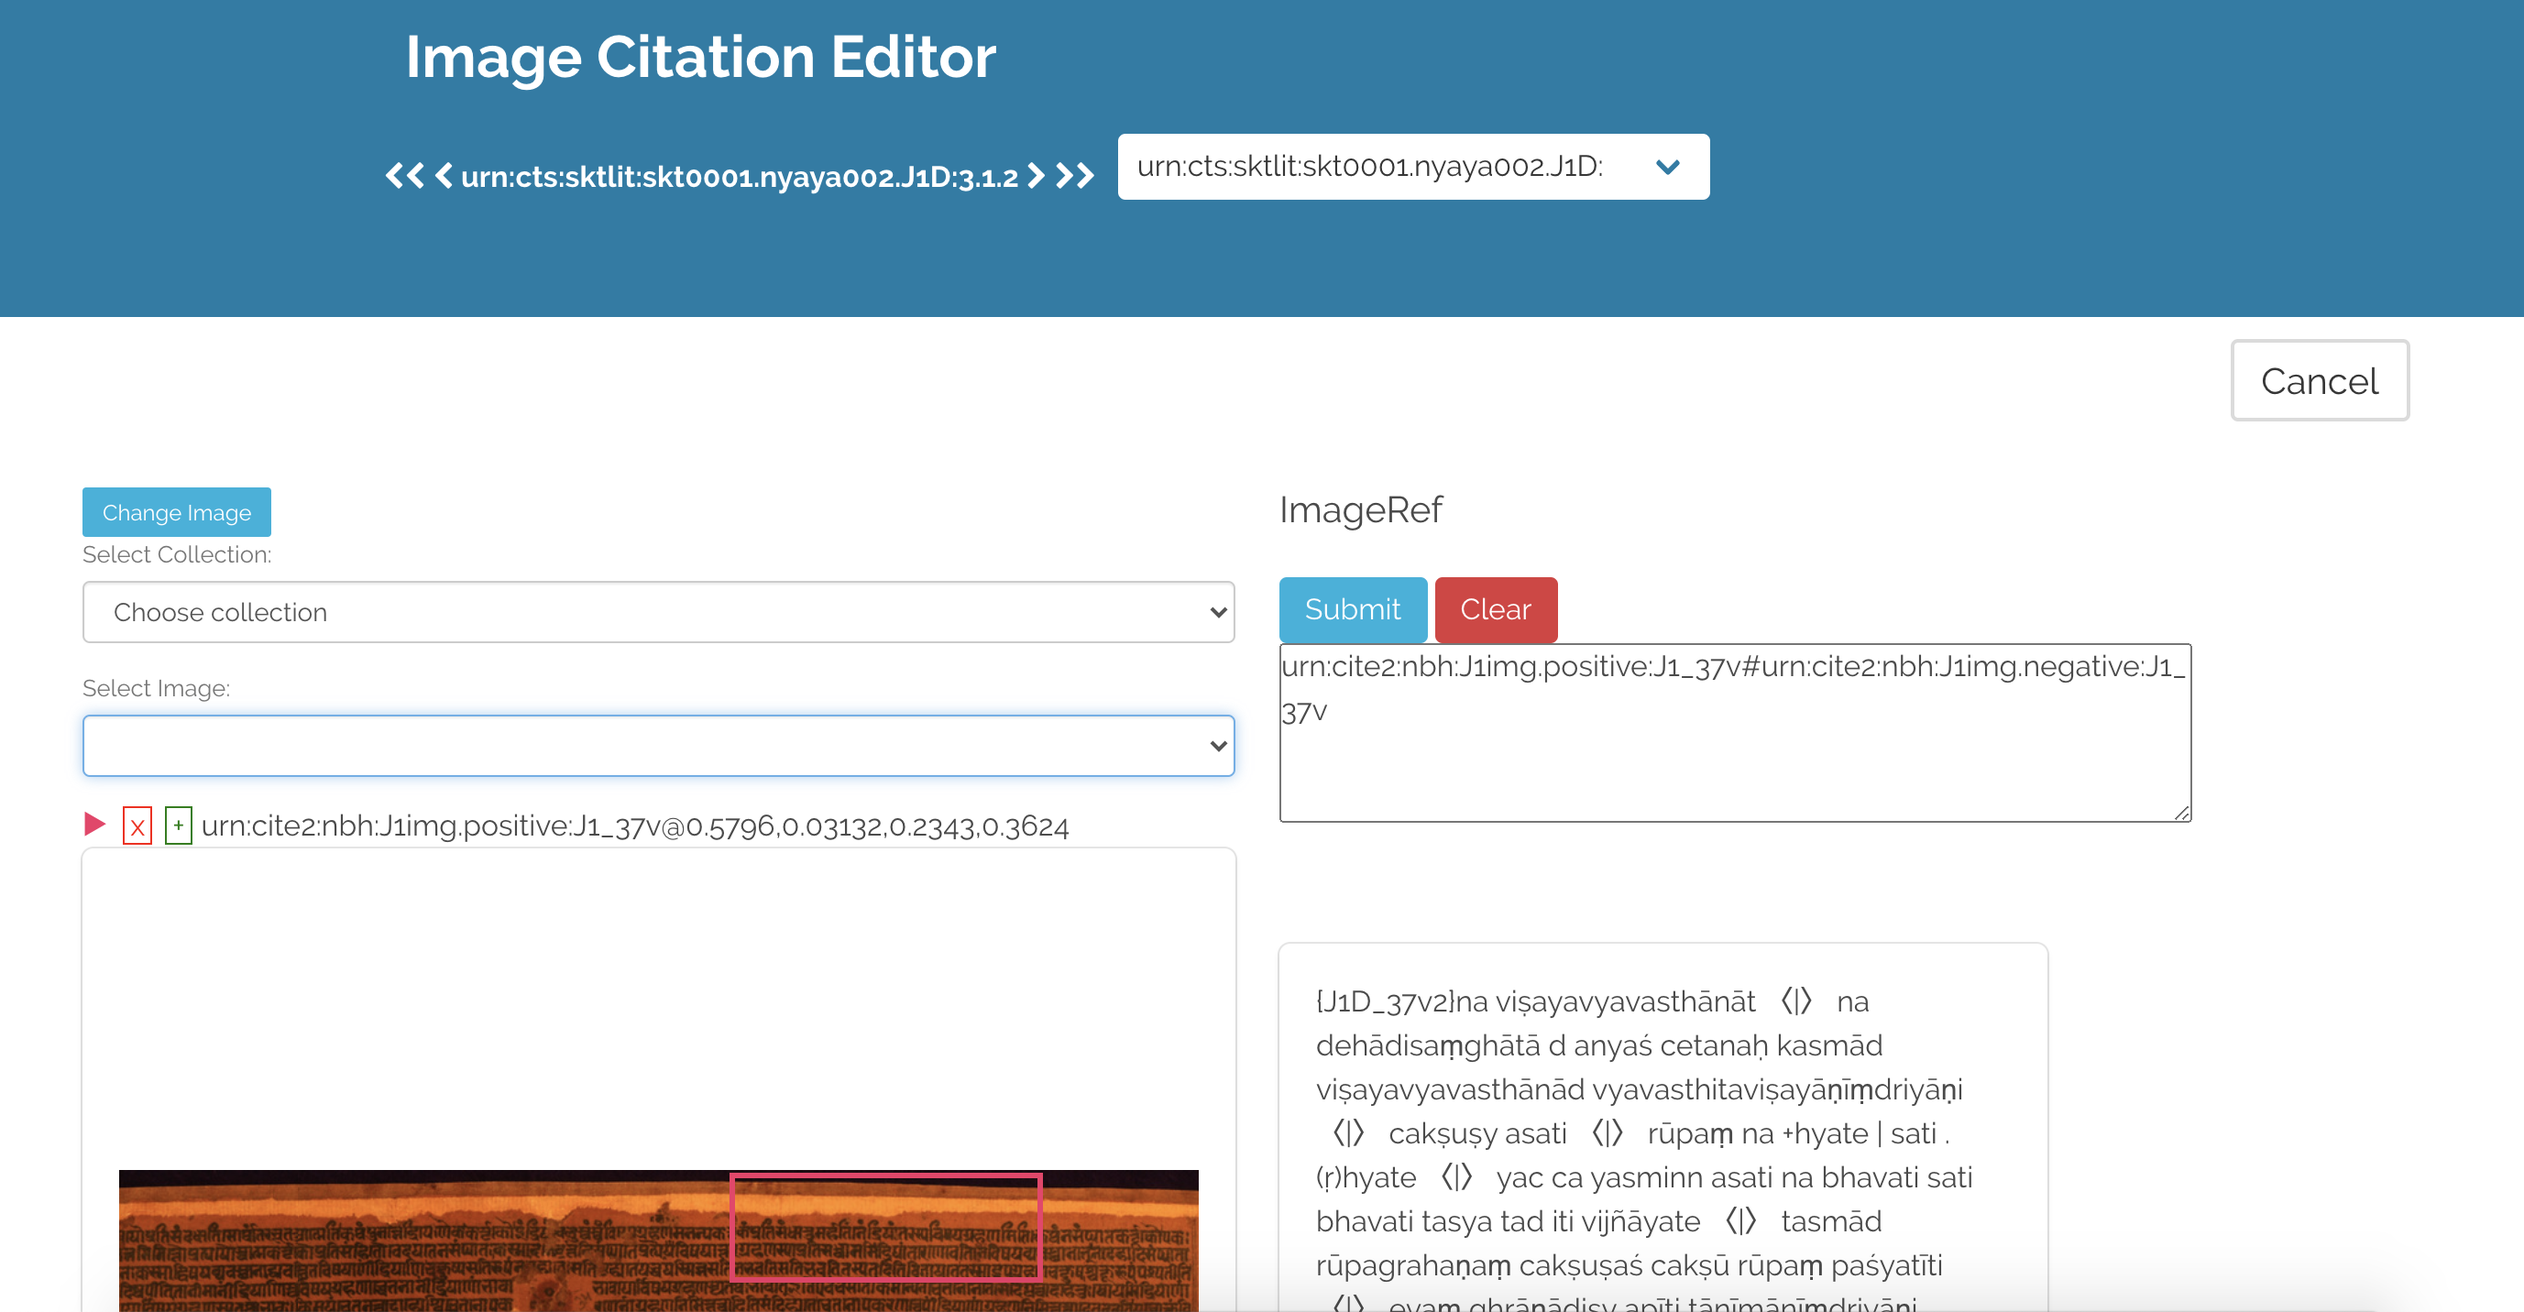
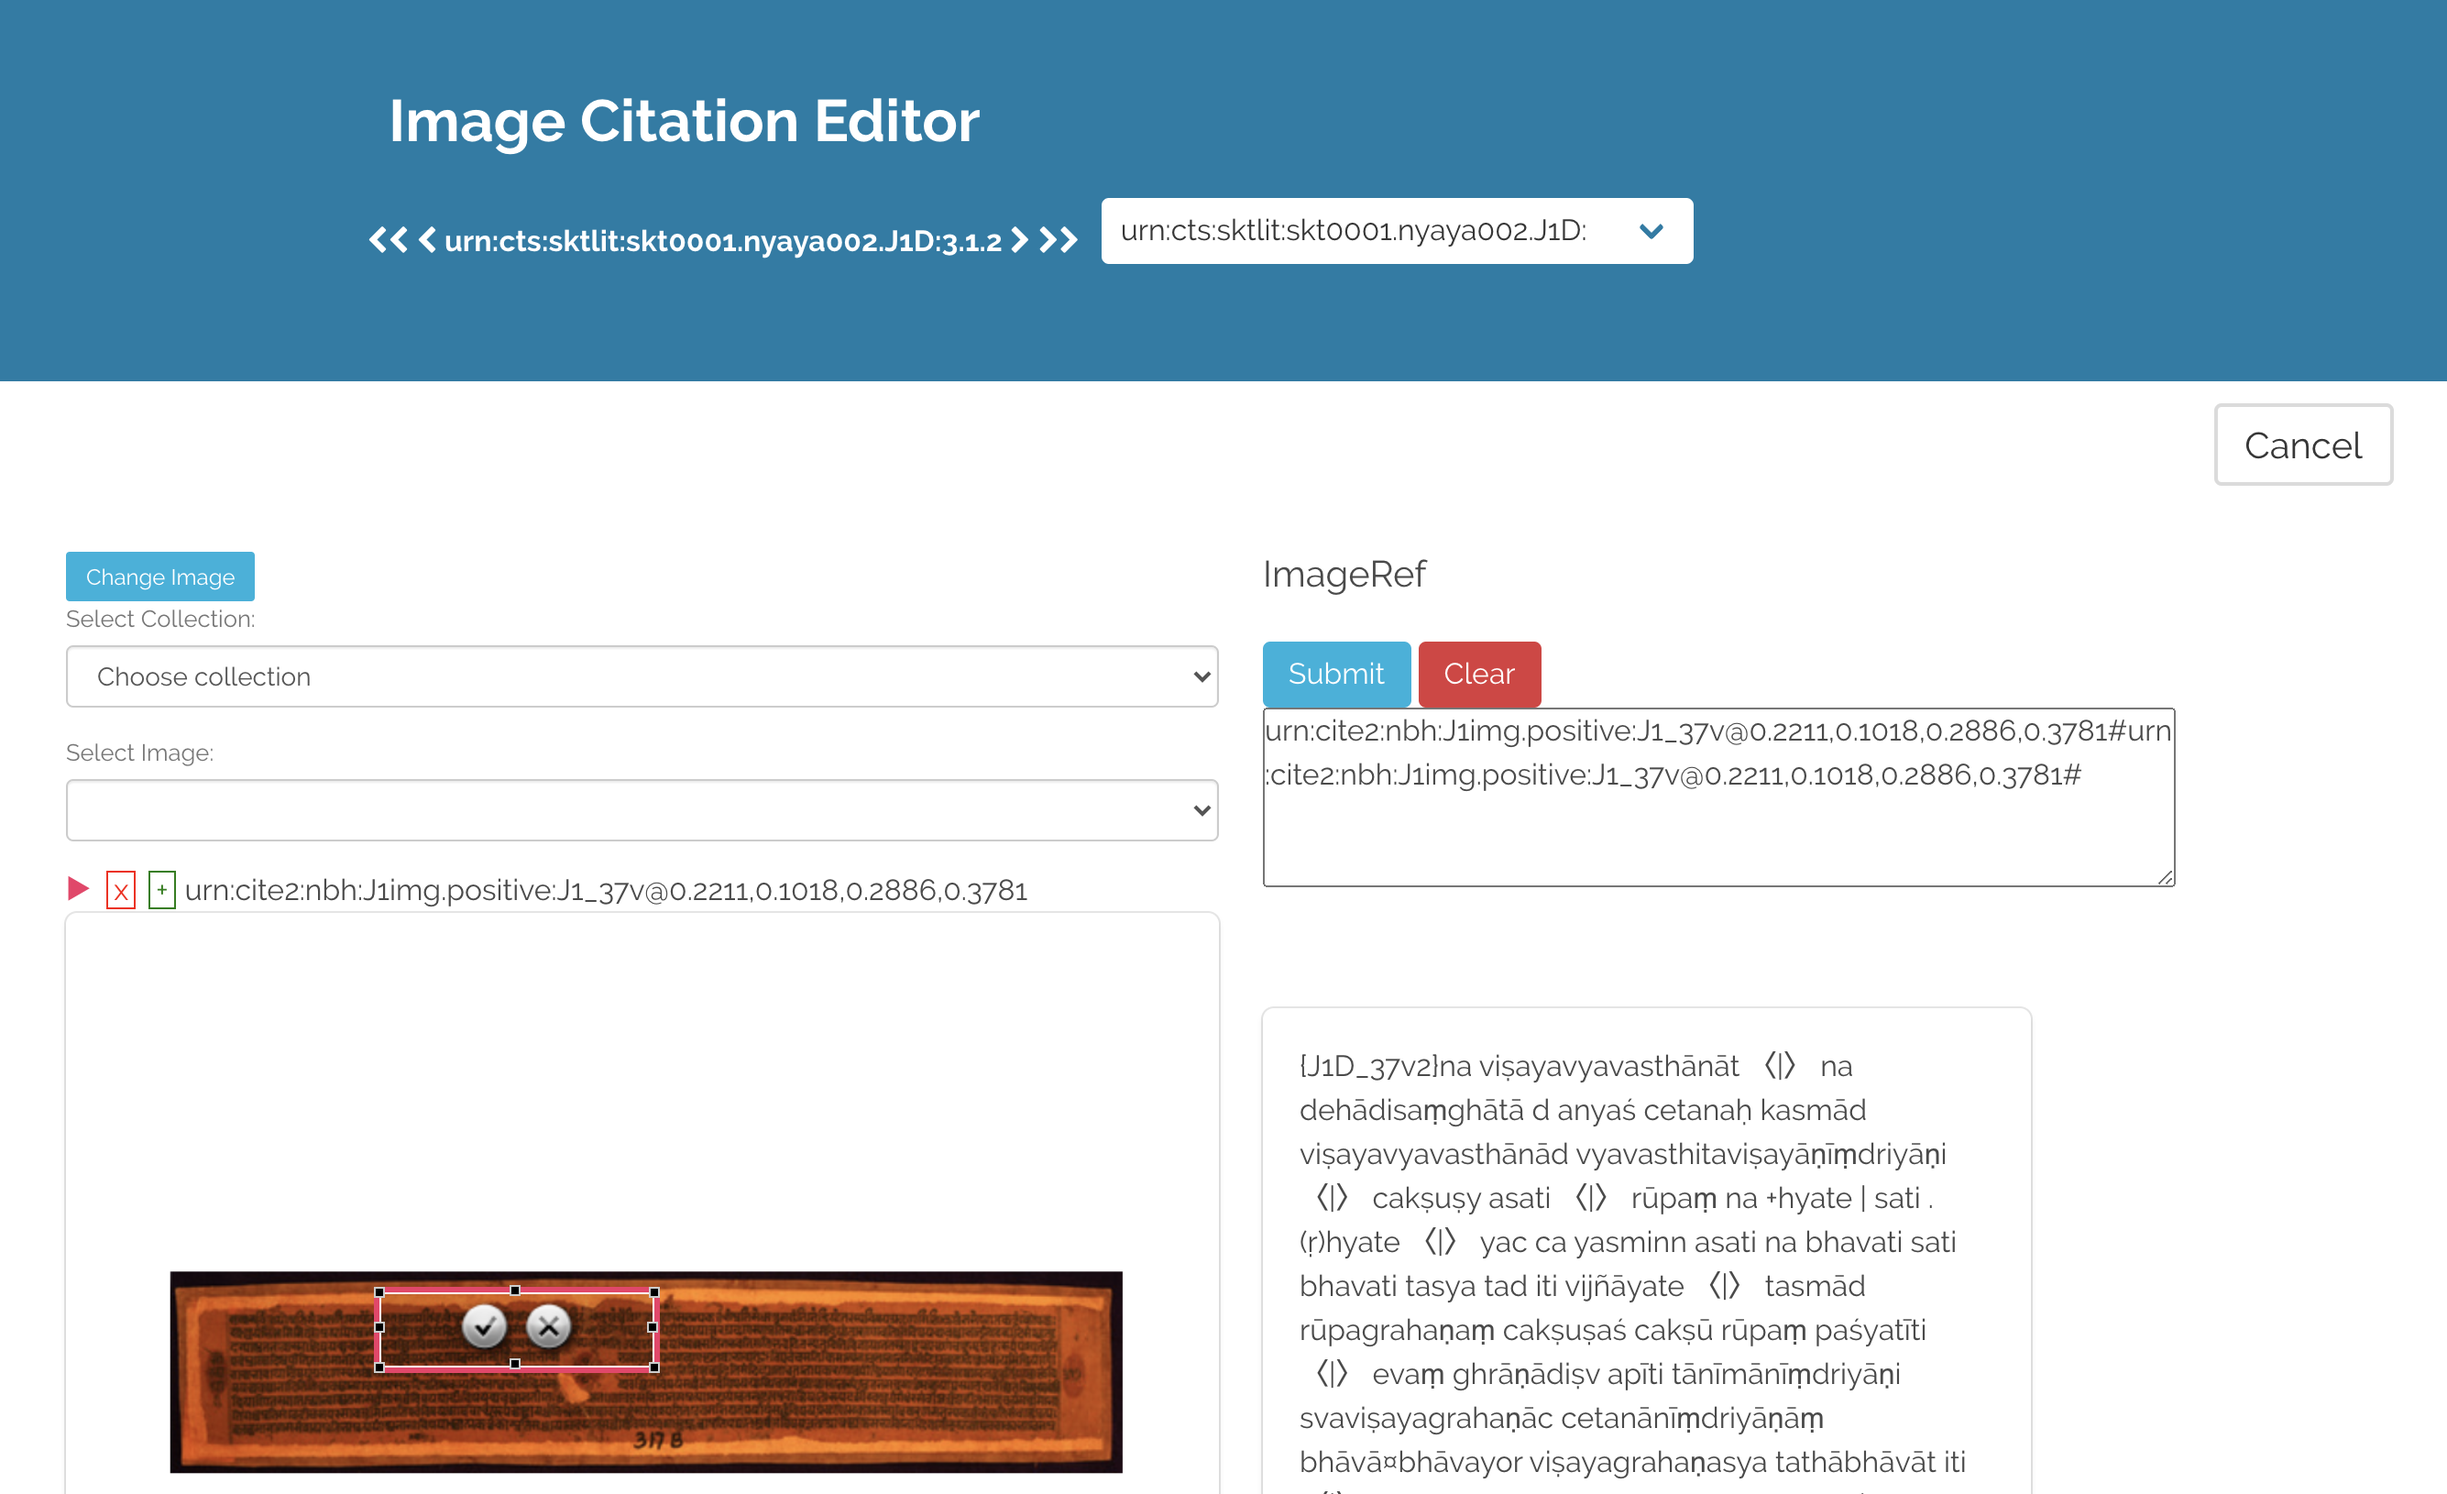
some more small changes, screenshots, add hype for Passage Overview in README

diff --git a/README.md b/README.md
@@ -123,7 +123,7 @@ Here the object image is front-and-center. The image viewer has buttons for zoom
 
 In this fork (which focuses on South Asian material in mostly horizontal or landscape layout), the corresponding text appears below the image (as opposed to on the right in the master branch; eventually it should be possible to toggle between the two, such as is already possible with e.g. `Transcription Desk`, compare note on which below). This text box has fixed dimensions with a scroll bar, to facilitate maximally close comparison of image and text. Text size can be adjusted with the provided buttons.
 
-Above the image, arrow buttons are provided for moving between adjacent passages as defined by CTS URNs (see above for links to background on this citation architecture). To the right of the arrows is a dropdown box with which one can change to other witnesses also extant for the chosen passage. One can also simply modify the URL directly.
+Above the image, arrow buttons are provided for moving between adjacent passages as defined by CTS URNs (see above for links to background on this citation architecture). To the right of the arrows is a dropdown box with which one can change to other witnesses also extant for the chosen passage. One can also simply modify the URL directly. In this way, one can move with great speed though multiple dimensions of the philological space.
 
 Below the text are a number of other features (e.g. metadata) and links to other program modes (e.g., `Transcribe`) not needed for the visualization functionality being described here.
 
@@ -280,9 +280,12 @@ for creating and editing transcription data (corresponding to `#!ctsdata` block 
 ![screenshot](static/img/tutorial_fork/transcription_desk.png)
 
 ### `Image Citation/(Reference) Editor`
-for creating and editing text-to-image relation data (corresponding to `#!relations` block of CEX file) in Brucheion's internal Bolt database; usage involves building and saving a `#`-separated list of CITE URN object references in the `ImageRef` box on the right with the help of the controls on the left (viewer plug-in — which also facilitates specifying subparts of images — as well as dropdown menus)
+for creating and editing text-to-image relation data (corresponding to `#!relations` block of CEX file) in Brucheion's internal Bolt database
 
-> Note: The "Select Image" dropdown currently seem unable to give access any individual items.
+> Usage Notes:
+
+1. The goal is to build and save a `#`-separated list of CITE URN object references in the `ImageRef` box on the right with the help of the controls on the left (viewer plug-in — which also facilitates specifying subparts of images — as well as dropdown menus). Confirm a drawn box with the check mark, and add the selection to the right with the plus symbol.
+2. The "Select Image" dropdown currently seem unable to give access any individual items.
 
 ![screenshot](static/img/tutorial_fork/image_citation_editor.png)
 
